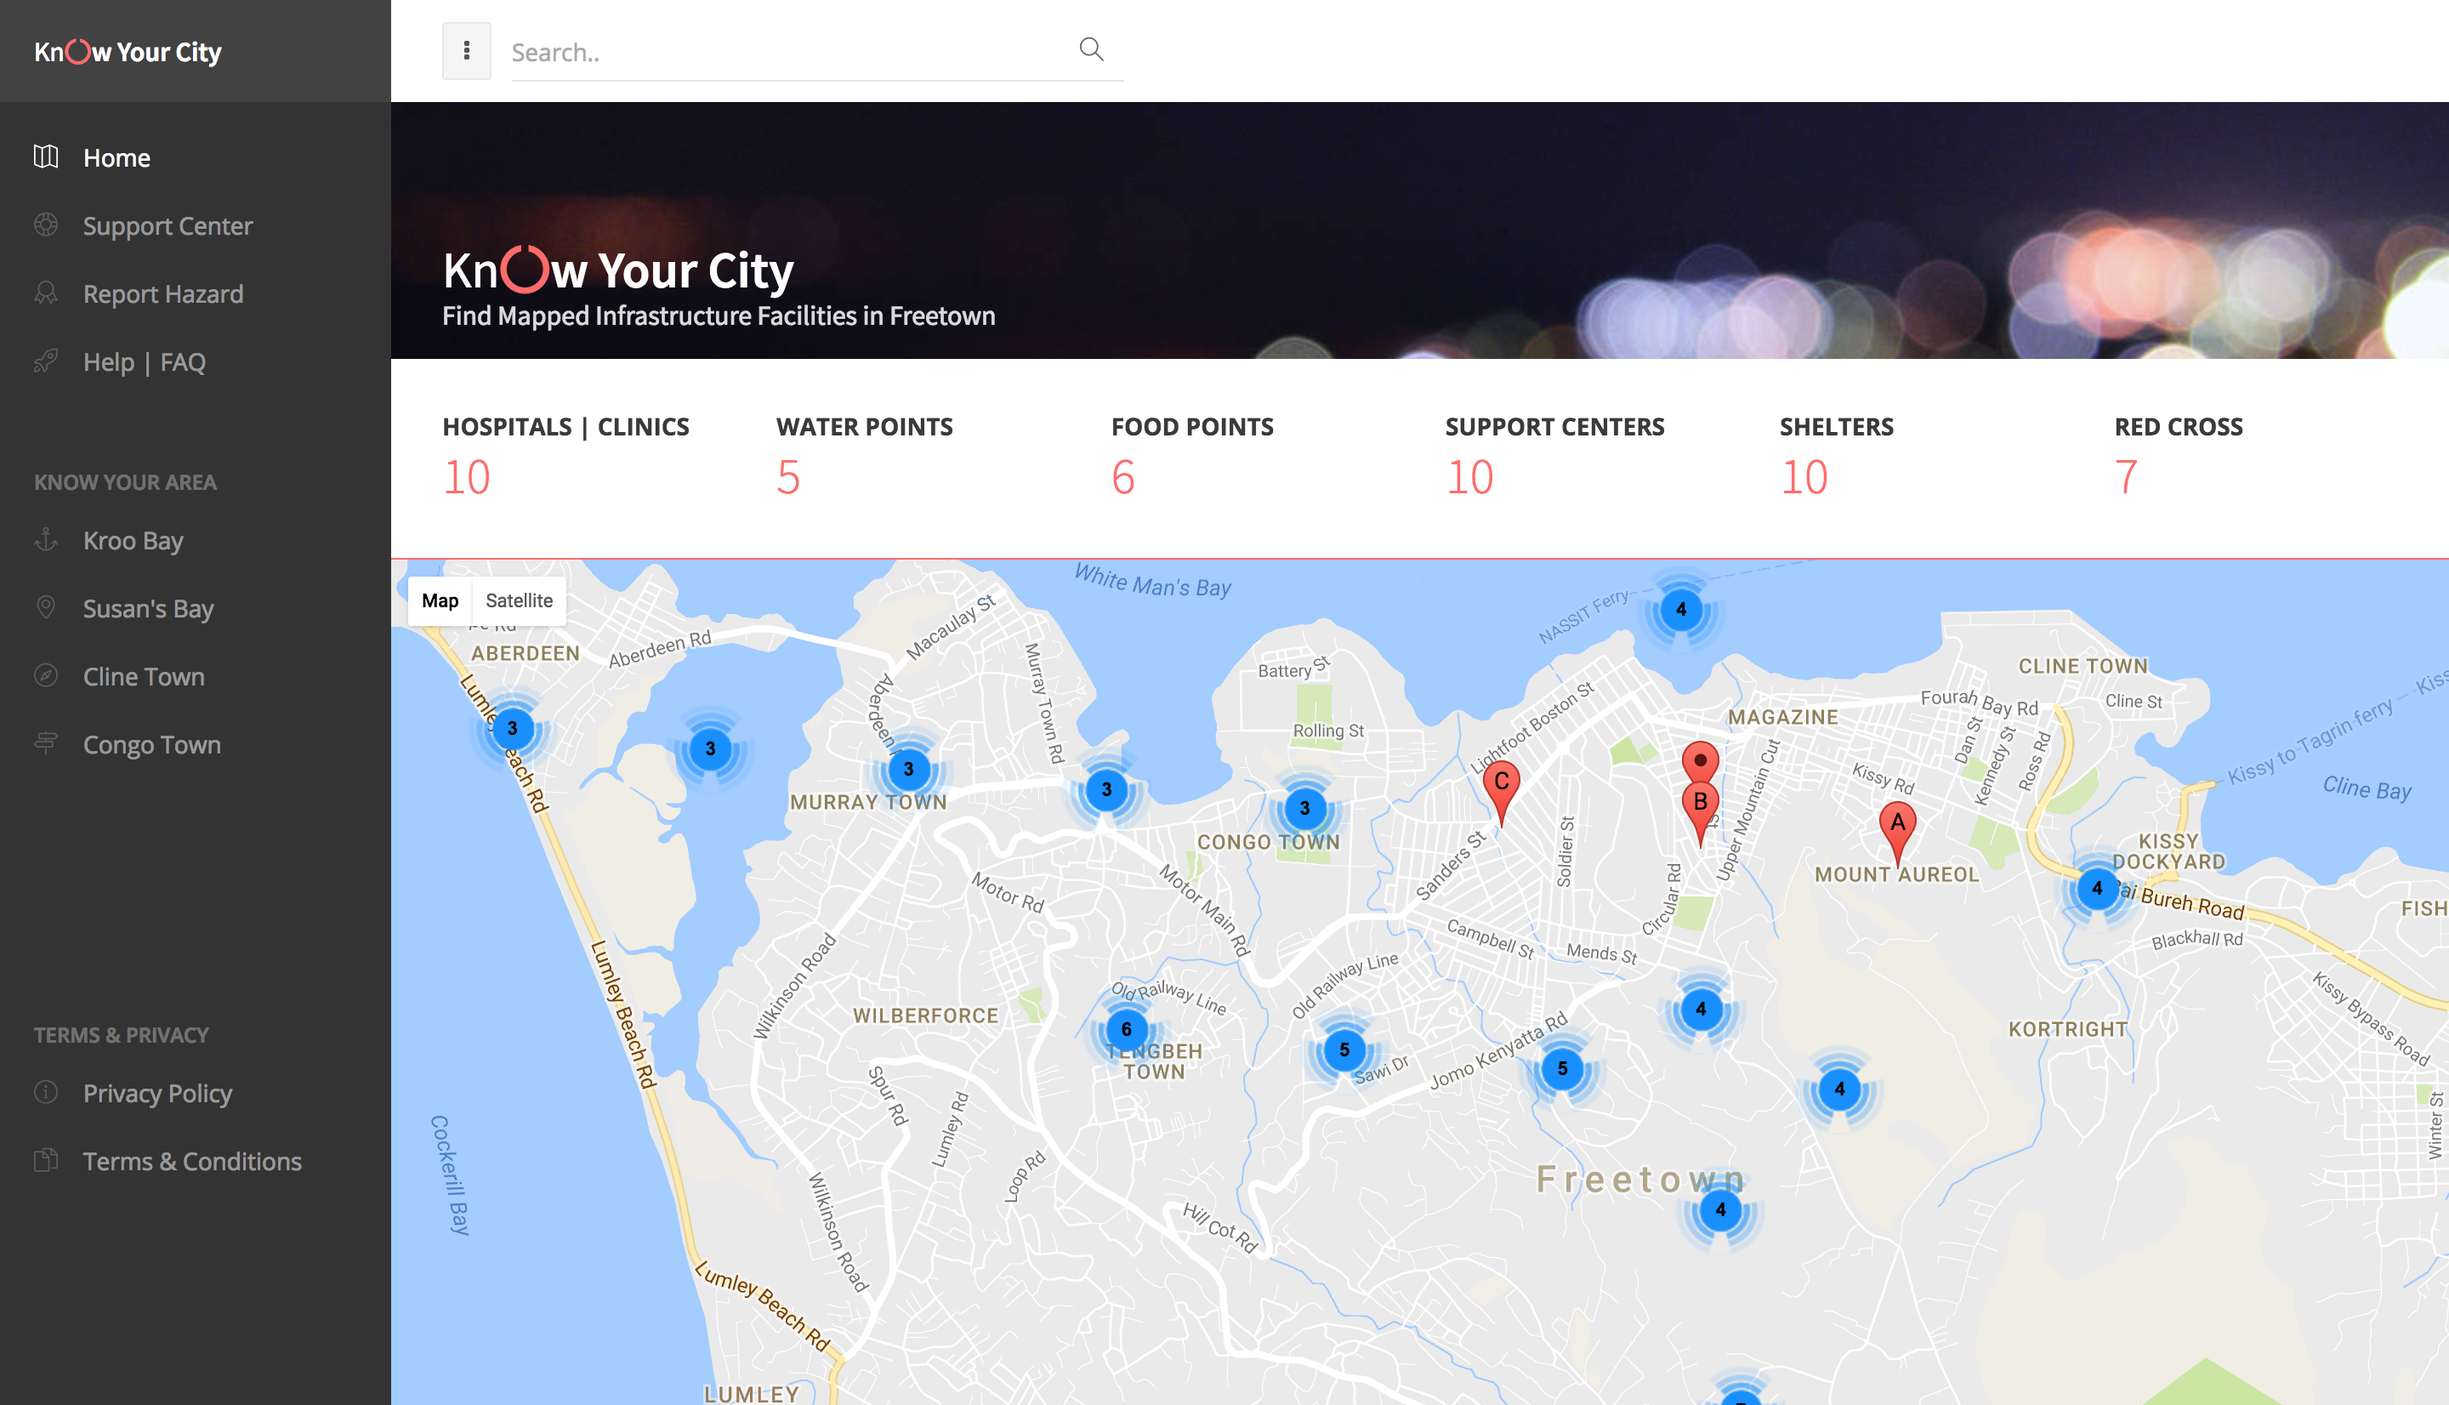
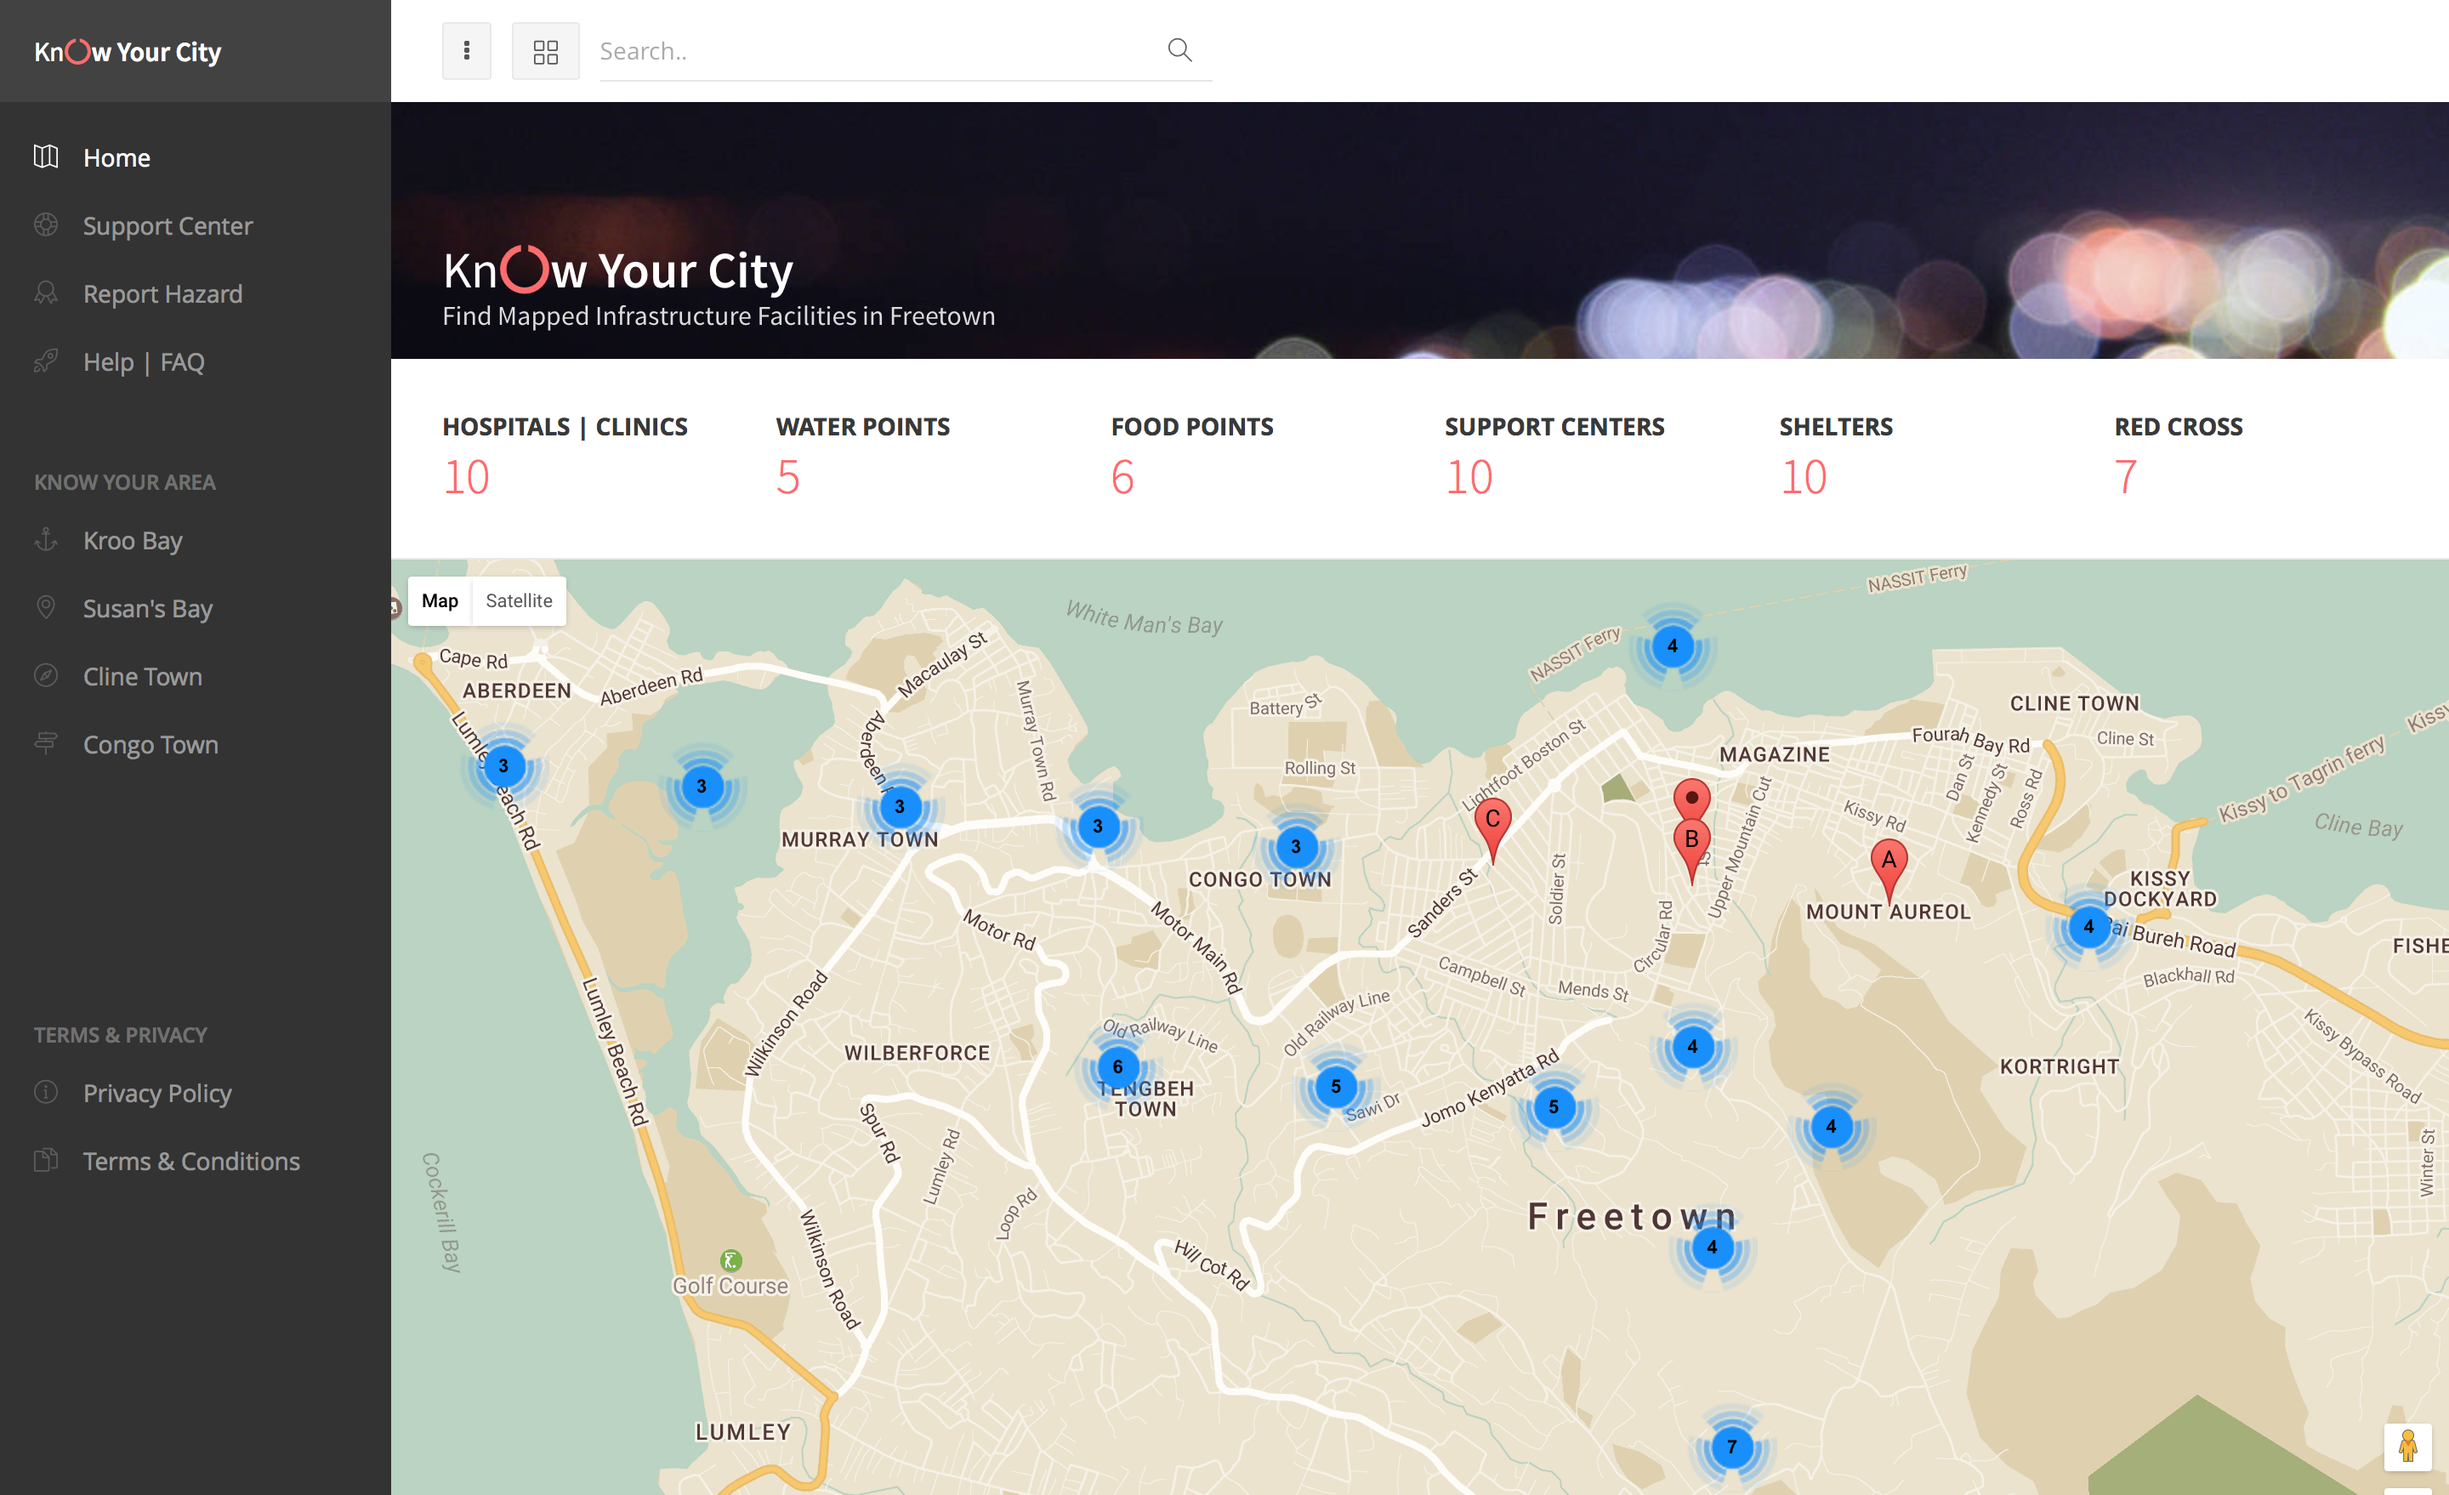
map styling

diff --git a/assets/scripts/pages/index_maps.js b/assets/scripts/pages/index_maps.js
@@ -93,78 +93,152 @@ var BaseCompMaps = function() {
         {lat: 8.471740, lng: -13.261676, animation: google.maps.Animation.DROP}
         ]
 
+        var iconBase = 'https://maps.google.com/mapfiles/kml/shapes/';
+        var icons = {
+          parking: {
+            icon: iconBase + 'parking_lot_maps.png'
+          },
+          library: {
+            icon: iconBase + 'library_maps.png'
+          },
+          info: {
+            icon: iconBase + 'info-i_maps.png'
+          }
+        };
+
+        function addMarker(feature) {
+          var marker = new google.maps.Marker({
+            position: feature.position,
+            icon: icons[feature.type].icon,
+            map: map
+          });
+        }
+
+        var features = [
+          {
+            position: new google.maps.LatLng(8.472740, -13.262676),
+            type: 'parking'
+          }
+        ];
+
+        for (var i = 0, feature; feature = features[i]; i++) {
+          addMarker(feature);
+        }
+
         var freetown = {lat: 8.484146, lng: -13.22867};
         var map = new google.maps.Map(document.getElementById('map'),{
             zoom: 14,
             center: freetown,
             scrollwheel: false,
             styles: [
-                {
-                    "featureType": "administrative.locality",
-                    "elementType": "geometry",
-                    "stylers": [
-                        {
-                            "visibility": "on"
-                        }
-                    ]
-                },
-                {
-                    "featureType": "poi.business",
-                    "elementType": "all",
-                    "stylers": [
-                        {
-                            "visibility": "off"
-                        }
-                    ]
-                },
-                {
-                    "featureType": "poi.school",
-                    "elementType": "all",
-                    "stylers": [
-                        {
-                            "visibility": "off"
-                        },
-                        {
-                            "saturation": -31
-                        }
-                    ]
-                },
-                {
-                    "featureType": "poi.government",
-                    "elementType": "all",
-                    "stylers": [
-                        {
-                            "visibility": "off"
-                        }
-                    ]
-                },
-                {
-                    "featureType": "poi.medical",
-                    "elementType": "all",
-                    "stylers": [
-                        {
-                            "visibility": "off"
-                        }
-                    ]
-                },
-                {
-                    "featureType": "poi.sports_complex",
-                    "elementType": "all",
-                    "stylers": [
-                        {
-                            "visibility": "off"
-                        }
-                    ]
-                },
-                {
-                    "featureType": "poi.place_of_worship",
-                    "elementType": "all",
-                    "stylers": [
-                        {
-                            "visibility": "off"
-                        }
-                    ]
-                }
+              {elementType: 'geometry', stylers: [{color: '#ebe3cd'}]},
+              {elementType: 'labels.text.fill', stylers: [{color: '#523735'}]},
+              {elementType: 'labels.text.stroke', stylers: [{color: '#f5f1e6'}]},
+              {
+                featureType: 'administrative',
+                elementType: 'geometry.stroke',
+                stylers: [{color: '#c9b2a6'}]
+              },
+              {
+                featureType: 'administrative.land_parcel',
+                elementType: 'geometry.stroke',
+                stylers: [{color: '#dcd2be'}]
+              },
+              {
+                featureType: 'administrative.land_parcel',
+                elementType: 'labels.text.fill',
+                stylers: [{color: '#ae9e90'}]
+              },
+              {
+                featureType: 'landscape.natural',
+                elementType: 'geometry',
+                stylers: [{color: '#dfd2ae'}]
+              },
+              {
+                featureType: 'poi',
+                elementType: 'geometry',
+                stylers: [{color: '#dfd2ae'}]
+              },
+              {
+                featureType: 'poi',
+                elementType: 'labels.text.fill',
+                stylers: [{color: '#93817c'}]
+              },
+              {
+                featureType: 'poi.park',
+                elementType: 'geometry.fill',
+                stylers: [{color: '#a5b076'}]
+              },
+              {
+                featureType: 'poi.park',
+                elementType: 'labels.text.fill',
+                stylers: [{color: '#447530'}]
+              },
+              {
+                featureType: 'road',
+                elementType: 'geometry',
+                stylers: [{color: '#f5f1e6'}]
+              },
+              {
+                featureType: 'road.arterial',
+                elementType: 'geometry',
+                stylers: [{color: '#fdfcf8'}]
+              },
+              {
+                featureType: 'road.highway',
+                elementType: 'geometry',
+                stylers: [{color: '#f8c967'}]
+              },
+              {
+                featureType: 'road.highway',
+                elementType: 'geometry.stroke',
+                stylers: [{color: '#e9bc62'}]
+              },
+              {
+                featureType: 'road.highway.controlled_access',
+                elementType: 'geometry',
+                stylers: [{color: '#e98d58'}]
+              },
+              {
+                featureType: 'road.highway.controlled_access',
+                elementType: 'geometry.stroke',
+                stylers: [{color: '#db8555'}]
+              },
+              {
+                featureType: 'road.local',
+                elementType: 'labels.text.fill',
+                stylers: [{color: '#806b63'}]
+              },
+              {
+                featureType: 'transit.line',
+                elementType: 'geometry',
+                stylers: [{color: '#dfd2ae'}]
+              },
+              {
+                featureType: 'transit.line',
+                elementType: 'labels.text.fill',
+                stylers: [{color: '#8f7d77'}]
+              },
+              {
+                featureType: 'transit.line',
+                elementType: 'labels.text.stroke',
+                stylers: [{color: '#ebe3cd'}]
+              },
+              {
+                featureType: 'transit.station',
+                elementType: 'geometry',
+                stylers: [{color: '#dfd2ae'}]
+              },
+              {
+                featureType: 'water',
+                elementType: 'geometry.fill',
+                stylers: [{color: '#b9d3c2'}]
+              },
+              {
+                featureType: 'water',
+                elementType: 'labels.text.fill',
+                stylers: [{color: '#92998d'}]
+              }
             ]
         });
 
